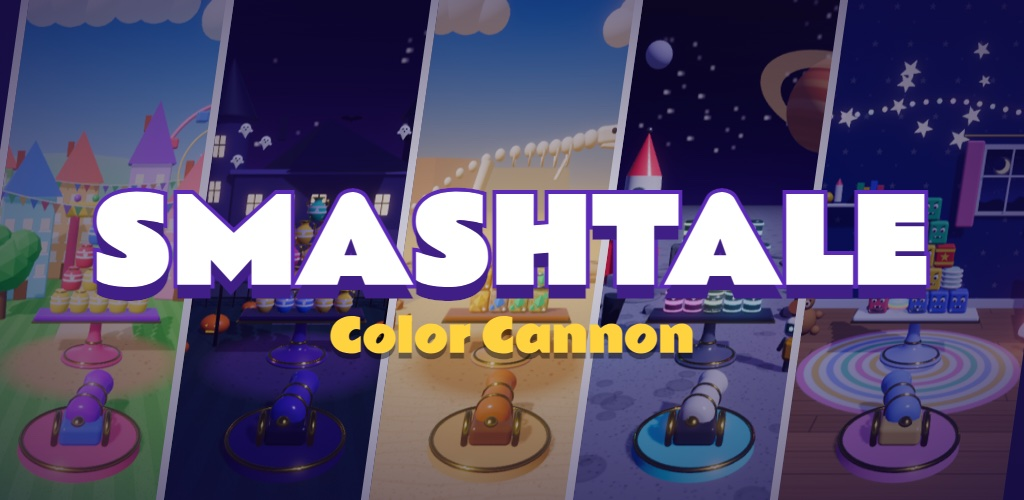
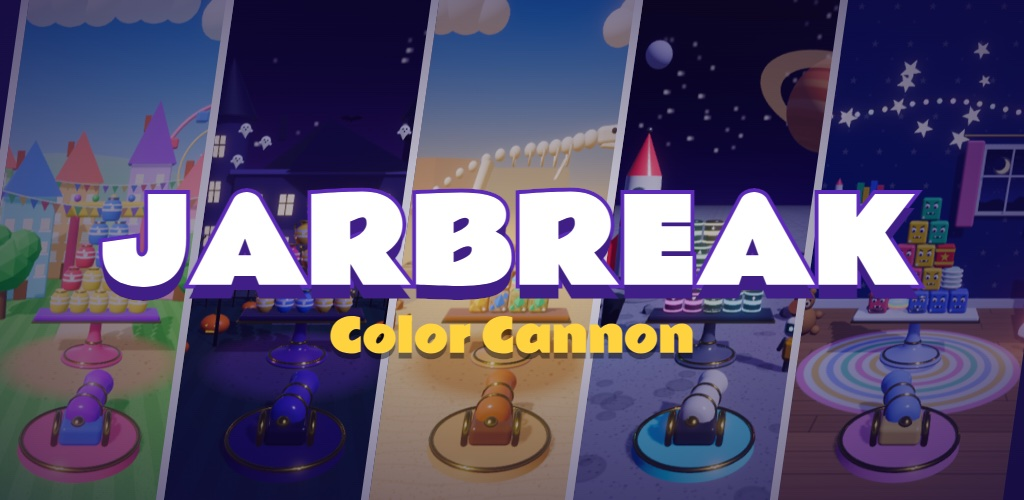
Jarbreak: rename game card, privacy and support pages

Changed region(s): [[0.0625, 0.36, 0.9062, 0.6]]

diff --git a/index.html b/index.html
@@ -4,7 +4,7 @@
 <meta charset="utf-8">
 <meta name="viewport" content="width=device-width, initial-scale=1, viewport-fit=cover">
 <title>Torgio Games</title>
-<meta name="description" content="Torgio Games is an independent mobile game studio from Türkiye. Calm, colourful, handcrafted games and apps: Lanterns of Vela, Smashtale, Blockwish, Splashcard, Popwit and Abonova.">
+<meta name="description" content="Torgio Games is an independent mobile game studio from Türkiye. Calm, colourful, handcrafted games and apps: Lanterns of Vela, Jarbreak, Blockwish, Splashcard, Popwit and Abonova.">
 <meta property="og:title" content="Torgio Games">
 <meta property="og:description" content="Small, handcrafted mobile games with heart. Made in Türkiye.">
 <meta property="og:image" content="https://torgiogames.github.io/assets/lanterns-of-vela.jpg">
@@ -162,9 +162,9 @@
     </article>
 
     <article class="game">
-      <div class="art"><img src="assets/smashtale.jpg" width="1024" height="500" alt="Smashtale key art: five colourful worlds behind the Smashtale logo"><span class="badge" data-tr="Yakında">Coming soon</span></div>
+      <div class="art"><img src="assets/smashtale.jpg" width="1024" height="500" alt="Jarbreak key art: five colourful worlds behind the Jarbreak logo"><span class="badge" data-tr="Yakında">Coming soon</span></div>
       <div class="body">
-        <div class="title"><img src="assets/smashtale-icon.png" alt=""><div><h3>Smashtale</h3><small data-tr="Renk Yolculuğu">Colour physics adventure</small></div></div>
+        <div class="title"><img src="assets/smashtale-icon.png" alt=""><div><h3>Jarbreak</h3><small data-tr="Renk Yolculuğu">Colour physics adventure</small></div></div>
         <p data-tr="Topu nişan al, renkli kuleleri kır, değen renkleri zincirleme patlat. Şenlik kasabasından bir çocuğun rüyasına uzanan beş dünyada Kül Kont'un sırrını çöz.">Aim the cannon and smash colourful towers. Touching colours chain, every tower is a little physics puzzle, across five story worlds from a festival town to a child's dream.</p>
         <div class="tags"><span data-tr="500 bölüm">500 levels</span><span data-tr="5 dünya">5 worlds</span><span data-tr="İnternetsiz">Offline</span></div>
         <div class="links"><a href="smashtale/support.html" data-tr="Destek">Support</a><a href="smashtale/privacy.html" data-tr="Gizlilik">Privacy policy</a></div>

diff --git a/smashtale/privacy.html b/smashtale/privacy.html
@@ -3,7 +3,7 @@
 <head>
 <meta charset="utf-8">
 <meta name="viewport" content="width=device-width, initial-scale=1">
-<title>Smashtale · Gizlilik Politikası / Privacy Policy</title>
+<title>Jarbreak · Gizlilik Politikası / Privacy Policy</title>
 <link rel="icon" href="../assets/smashtale-icon.png">
 <style>
   :root { color-scheme: light dark; --ink: #1d2433; --dim: #5b6478; --bg: #ffffff; --line: #e3e6ee; --accent: #c2266a; }
@@ -16,7 +16,7 @@
 </head>
 <body>
 <main>
-  <h1>Smashtale — Gizlilik Politikası</h1>
+  <h1>Jarbreak — Gizlilik Politikası</h1>
   <p class="dim">Son güncelleme: 4 Kasım 2026 · Torgio Games</p>
 
   <h2>Kısaca</h2>
@@ -61,7 +61,7 @@
 
   <hr>
 
-  <h1>Smashtale — Privacy Policy</h1>
+  <h1>Jarbreak — Privacy Policy</h1>
   <p class="dim">Last updated: November 4, 2026 · Torgio Games</p>
 
   <h2>In short</h2>

diff --git a/smashtale/support.html b/smashtale/support.html
@@ -3,7 +3,7 @@
 <head>
 <meta charset="utf-8">
 <meta name="viewport" content="width=device-width, initial-scale=1">
-<title>Smashtale · Destek / Support</title>
+<title>Jarbreak · Destek / Support</title>
 <link rel="icon" href="../assets/smashtale-icon.png">
 <style>
   :root { color-scheme: light dark; --ink: #1d2433; --dim: #5b6478; --bg: #ffffff; --line: #e3e6ee; --accent: #c2266a; }
@@ -19,7 +19,7 @@
 <body>
 <main>
   <img class="icon" src="../assets/smashtale-icon.png" alt="">
-  <h1>Smashtale · Destek</h1>
+  <h1>Jarbreak · Destek</h1>
   <p class="dim">Torgio Games</p>
 
   <h2>Bize yazın</h2>
@@ -38,7 +38,7 @@
 
   <hr>
 
-  <h1>Smashtale · Support</h1>
+  <h1>Jarbreak · Support</h1>
   <p class="dim">Torgio Games</p>
 
   <h2>Contact us</h2>
